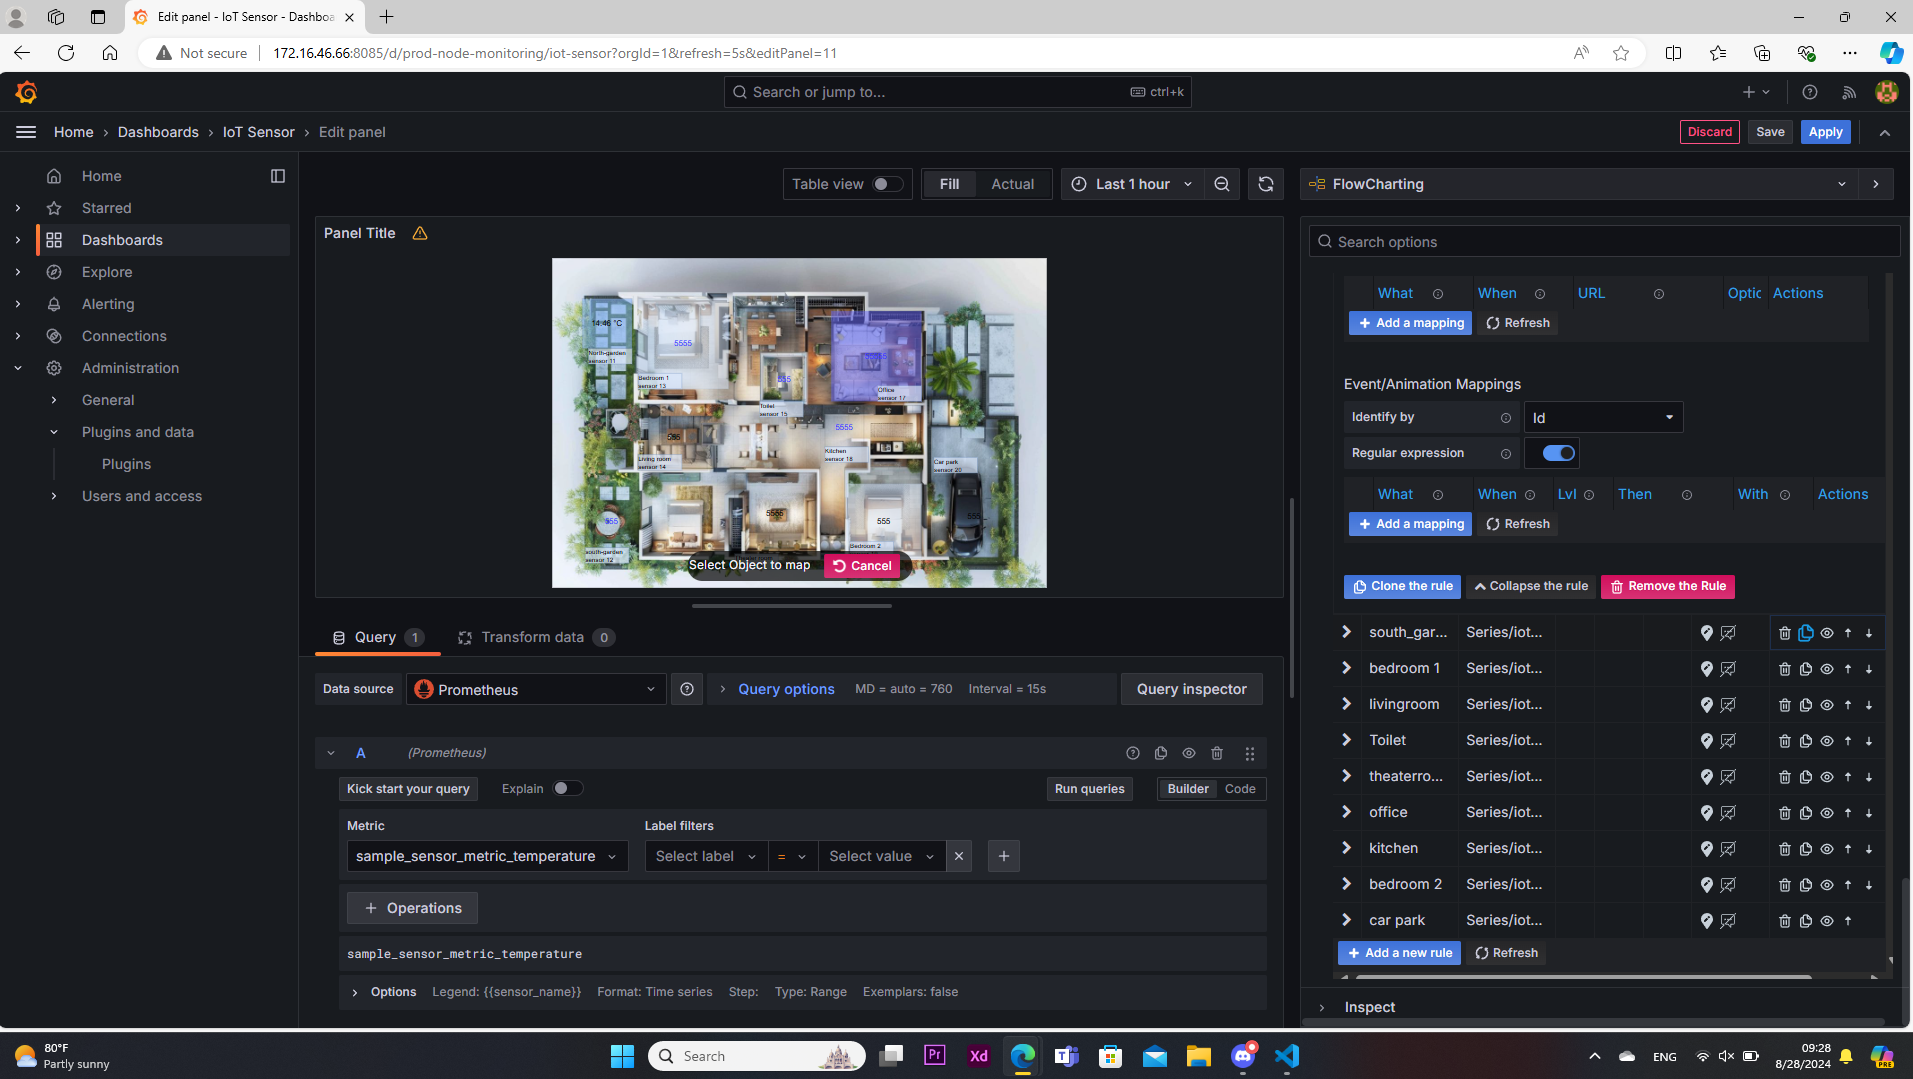
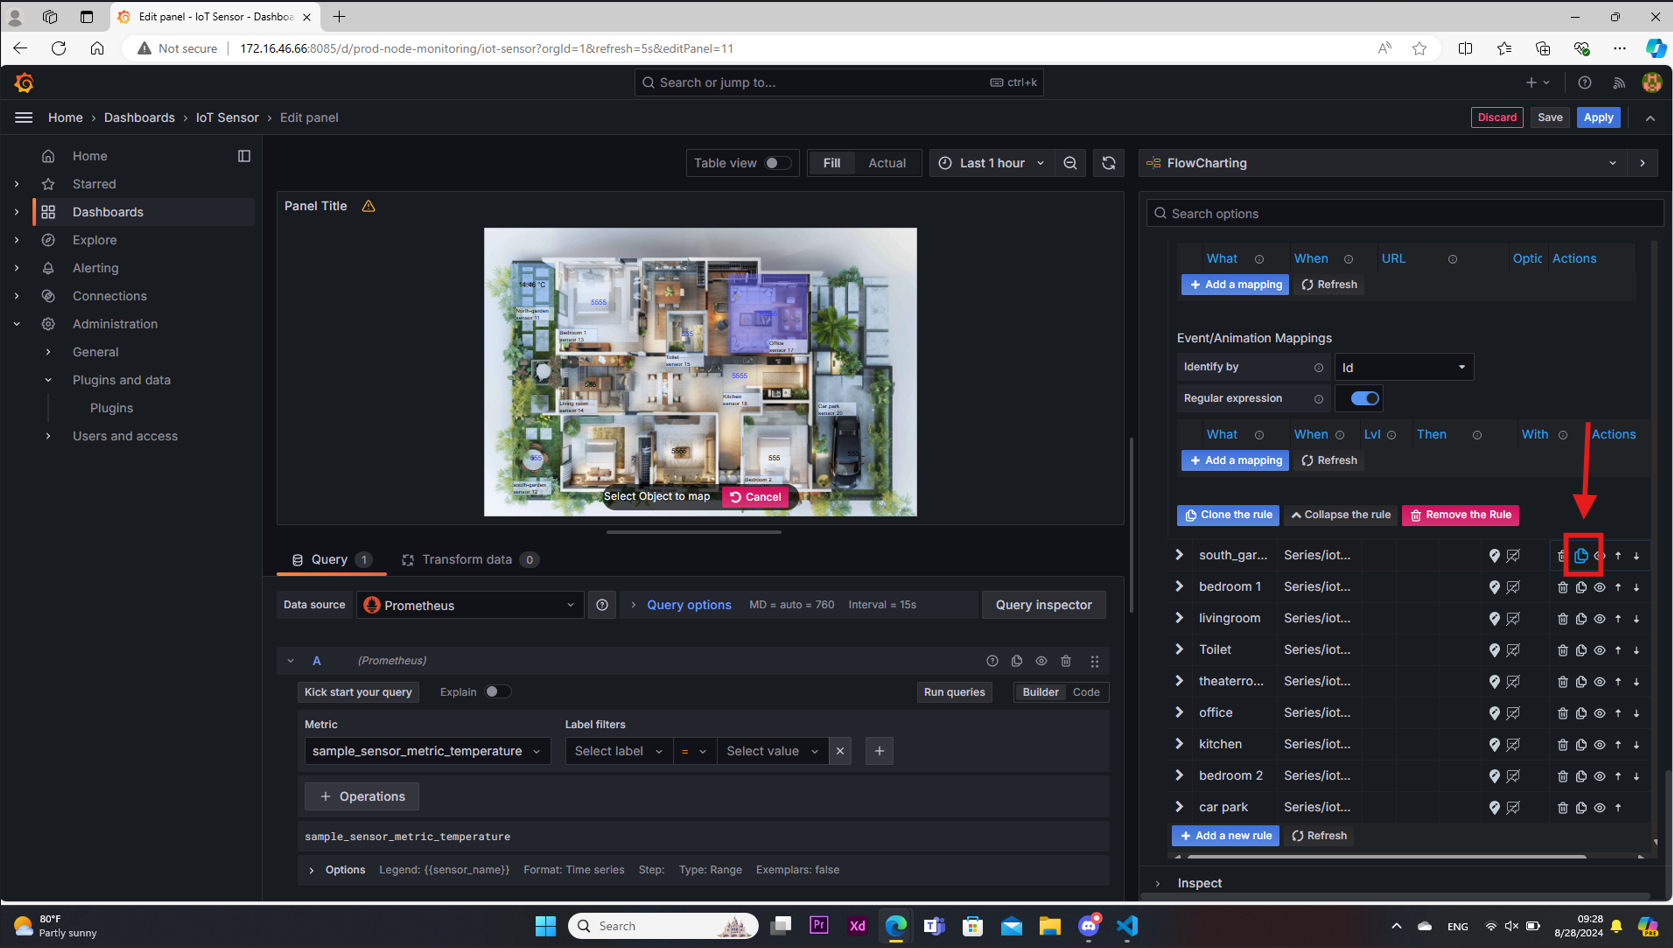
add picture ass7

diff --git a/assignment07/01-visualization.md b/assignment07/01-visualization.md
@@ -128,29 +128,74 @@ docker compose restart grafana
 </br>
 
 # การใช้งาน FlowCharting
-
-ออกแบบ chart ตามต้องการผ่าน drawio ในที่นี้ได้ใช้แผนผังบ้านซึ่งเราจะวาง sensors 10 ตัวสำหรับรับค่าอุณหภูมิจาก sensor มาแสดงที่ dashboard
-![pic_1](./grafana_pic/house10sensor.png)
+</br>
+![pic](./grafana_pic/house10sensor.png)
+</br>
 </br>
 
-1. เริ่มจากการดึง plugin flowcharting ที่ install ข้างต้นมาใช้งานโดยกด add ที่มุมขวาบนแล้วค้นหาคำว่า flowcharting 
-2. เมื่อเข้ามาที่ flowcharting เราสามารถ edit diagram เพื่อแก้ไขแผนผังหน้า dashboard ได้ตามที่ต้องการโดยแก้ chart ผ่าน drawio
-3. สร้างกล่องใสขึ้นมาเตรียมไว้สำหรับแสดงค่าอุณหภูมิของ sensors ทั้ง 10 ตัวกระจายทั่วบ้านและเราสามารถเขียนอธิบายได้ว่า sensors นั้นอยู่ที่ไหนชื่ออะไรโดยสร้างอีกกล่องข้อความมาเขียนคำอธิบาย ซึ่งเราสามารถปรับขนาด สี ของข้อความได้ตามที่เราต้องการ เมื่อสร้างเสร็จแล้วให้กด save
-4. รับค่า sensor มาแสดงบน drawio ที่สร้างผ่าน Prometheus ทำให้เราสามารถ query ค่าออกมาใช้งานได้ 
-    - เลือก Data source เป็น Prometheus เพราะเราใช้ Prometheus ในการดึง streaming data
-    - เลือก select metric เป็นค่าที่เราอยากใช้มาแสดง ในที่นี้เราจะใช้ค่า sample_sensor_metric_temperature
-    - เลือก key ที่ต้องการมาแสดงใน options โดยในที่นี้เราจะเลือกเป็น sensor_name
-    - จากนั้นกด run request
+ออกแบบ chart ตามต้องการผ่าน drawio ในที่นี้ได้ใช้แผนผังบ้านซึ่งเราจะวาง sensors 10 ตัวสำหรับรับค่าอุณหภูมิจาก sensor มาแสดงที่ dashboard
+1. เริ่มจากการดึง plugin flowcharting ที่ install ข้างต้นมาใช้งานโดยกด add ที่มุมขวาบนแล้วค้นหาคำว่า flowcharting
+</br>
+![pic_1](./grafana_pic/flowcharting.png)
+</br> 
 
-5. map ค่าระหว่างกล่องโปร่งใสที่สร้างกับ sensor
+2. เมื่อเข้ามาที่ flowcharting เราสามารถ edit diagram เพื่อแก้ไขแผนผังหน้า dashboard ได้ตามที่ต้องการโดยแก้ chart ผ่าน drawio
+</br>
+![pic_2](./grafana_pic/editDiagram.png)
+</br> 
+
+3. ออกแบบแผนผังใน drawio ตามความต้องการ ในที่นี้เราใช้เป็นภาพแผนผังบ้าน
+</br>
+![pic_3](./grafana_pic/drawio_houseplan.png)
+</br> 
+
+4. สร้างกล่องใสขึ้นมาเตรียมไว้สำหรับแสดงค่าอุณหภูมิของ sensors ทั้ง 10 ตัวกระจายทั่วบ้านและเราสามารถเขียนอธิบายได้ว่า sensors นั้นอยู่ที่ไหนชื่ออะไรโดยสร้างอีกกล่องข้อความมาเขียนคำอธิบาย ซึ่งเราสามารถปรับขนาด สี ของข้อความได้ตามที่เราต้องการ เมื่อสร้างเสร็จแล้วให้กด save
+</br>
+![pic_4](./grafana_pic/addbox_text.png)
+</br> 
+
+5. รับค่า sensor มาแสดงบน drawio ที่สร้างผ่าน Prometheus ทำให้เราสามารถ query ค่าออกมาใช้งานได้ 
+    - เลือก Data source เป็น Prometheus เพราะเราใช้ Prometheus ในการดึง streaming data
+      </br>
+      ![pic_5.1](./grafana_pic/prometheous.png)
+      </br> 
+
+    - เลือก select metric เป็นค่าที่เราอยากใช้มาแสดง ในที่นี้เราจะใช้ค่า sample_sensor_metric_temperature
+      </br>
+      ![pic_5.2](./grafana_pic/sample_temp.png)
+      </br> 
+
+    - เลือก key ที่ต้องการมาแสดงใน options โดยในที่นี้เราจะเลือกเป็น sensor_name
+      </br>
+      ![pic_5.3](./grafana_pic/sensor_name .png)
+      </br> 
+    - จากนั้นกด run request
+      </br>
+      ![pic_5.4](./grafana_pic/runRequest.png)
+      </br> 
+
+6. map ค่าระหว่างกล่องโปร่งใสที่สร้างกับ sensor
+    </br>
+    ![pic_6.1](./grafana_pic/rule.png)
+    </br> 
+
     - ไปที่ Rules
     - เลือกค่าที่ต้องการแสดง apply to metrics โดยเลือกตามค่าที่เราทำการ query มา
-    - เราสามารถกำหนด หน่วย ได้ ในหัวข้อ type
+    - เราสามารถกำหนด หน่วย ได้ ในหัวข้อ type (unit)
     - เลือกประเภทของค่าเป็น AVG เพื่อให้ค่าแสดงผลตรงกับ plugins อื่น ๆ ที่มีอยู่แล้วบน dashboard
     - ในหัวข้อ map color และ map text แล้วกดสัญลักษณ์ location จากนั้นให้กดไปที่กล่องใสที่เราสร้างไว้ใน drawio ที่ต้องการเพื่อแสดงค่า sensor ถ้าทำสำเร็จจะขึ้นแสดงว่าเราได้ทำการกดเลือกตรงไหนเพื่อแสดงค่า
+      </br>
+      ![pic_6.2](./grafana_pic/map_text.png)
+      </br> 
+
     - จะเห็นได้ว่าสีและค่าที่ query มาได้ขึ้นไปอยู่บนกรอบแผนผัง drawio ที่เราสร้างไว้
     - เราสามารถกำหนดค่า treshold ของสีได้ ถ้าค่าอยู่ใน range นี้จะให้กล่องมีสีอะไร เช่น หากค่าอุณหภูมิ <= 30 ให้แสดงสีฟ้าเป็นต้น
+      </br>
+      ![pic_6.3](./grafana_pic/threshold.png)
+      </br> 
 
-6. ทำการ duplicate Rules ให้ครบทุก sensors แล้วไปเปลี่ยน apply to metrics โดยเลือก sensor ตามที่เราต้องการ และเปลี่ยนที่ map บนแผนภาพ
-
+7. ทำการ duplicate Rules ให้ครบทุก sensors แล้วไปเปลี่ยน apply to metrics โดยเลือก sensor ตามที่เราต้องการ และเปลี่ยนที่ map บนแผนภาพ
+</br>
+![pic_7](./grafana_pic/duplicate.png)
+</br> 
 
